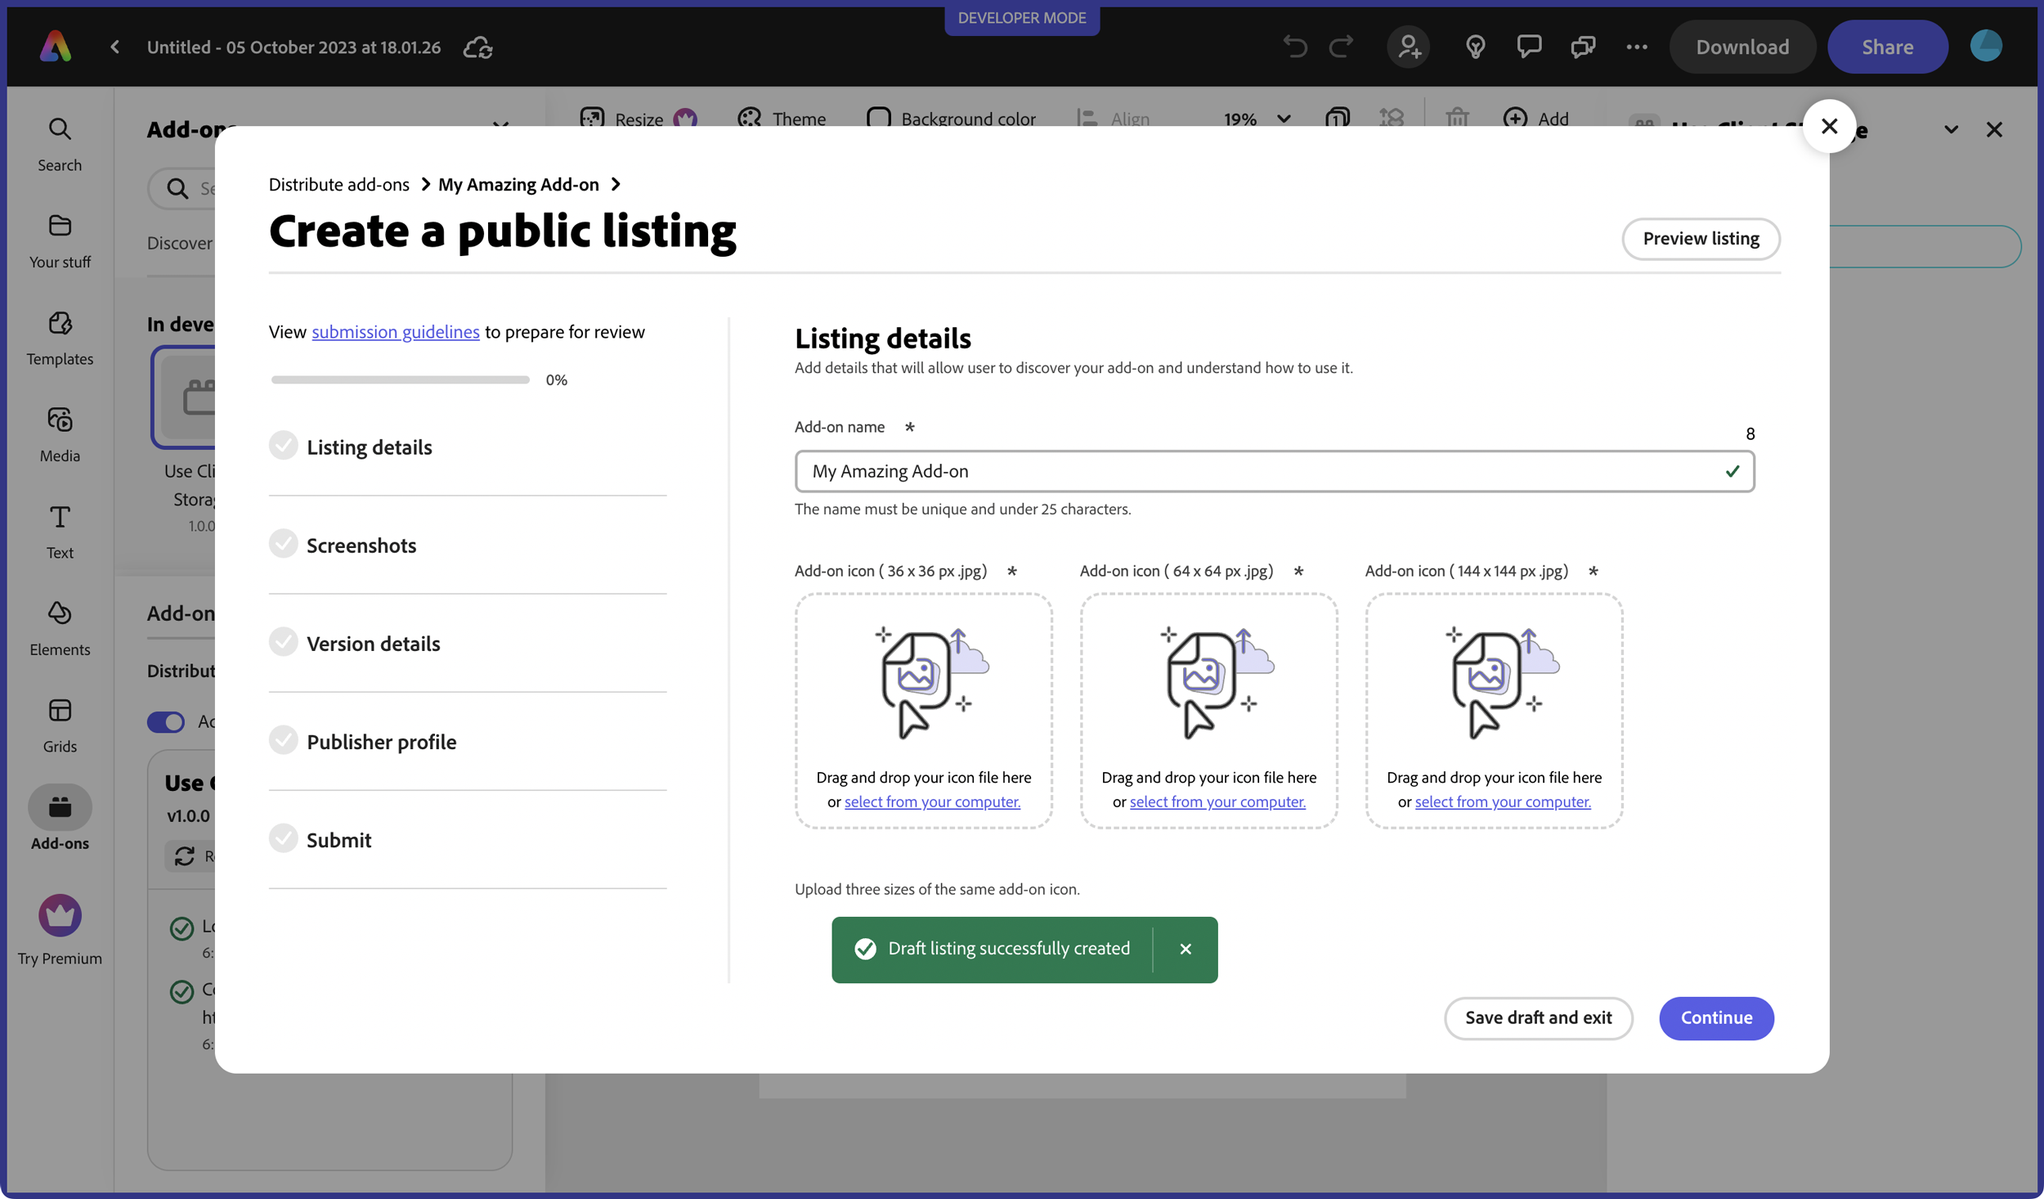
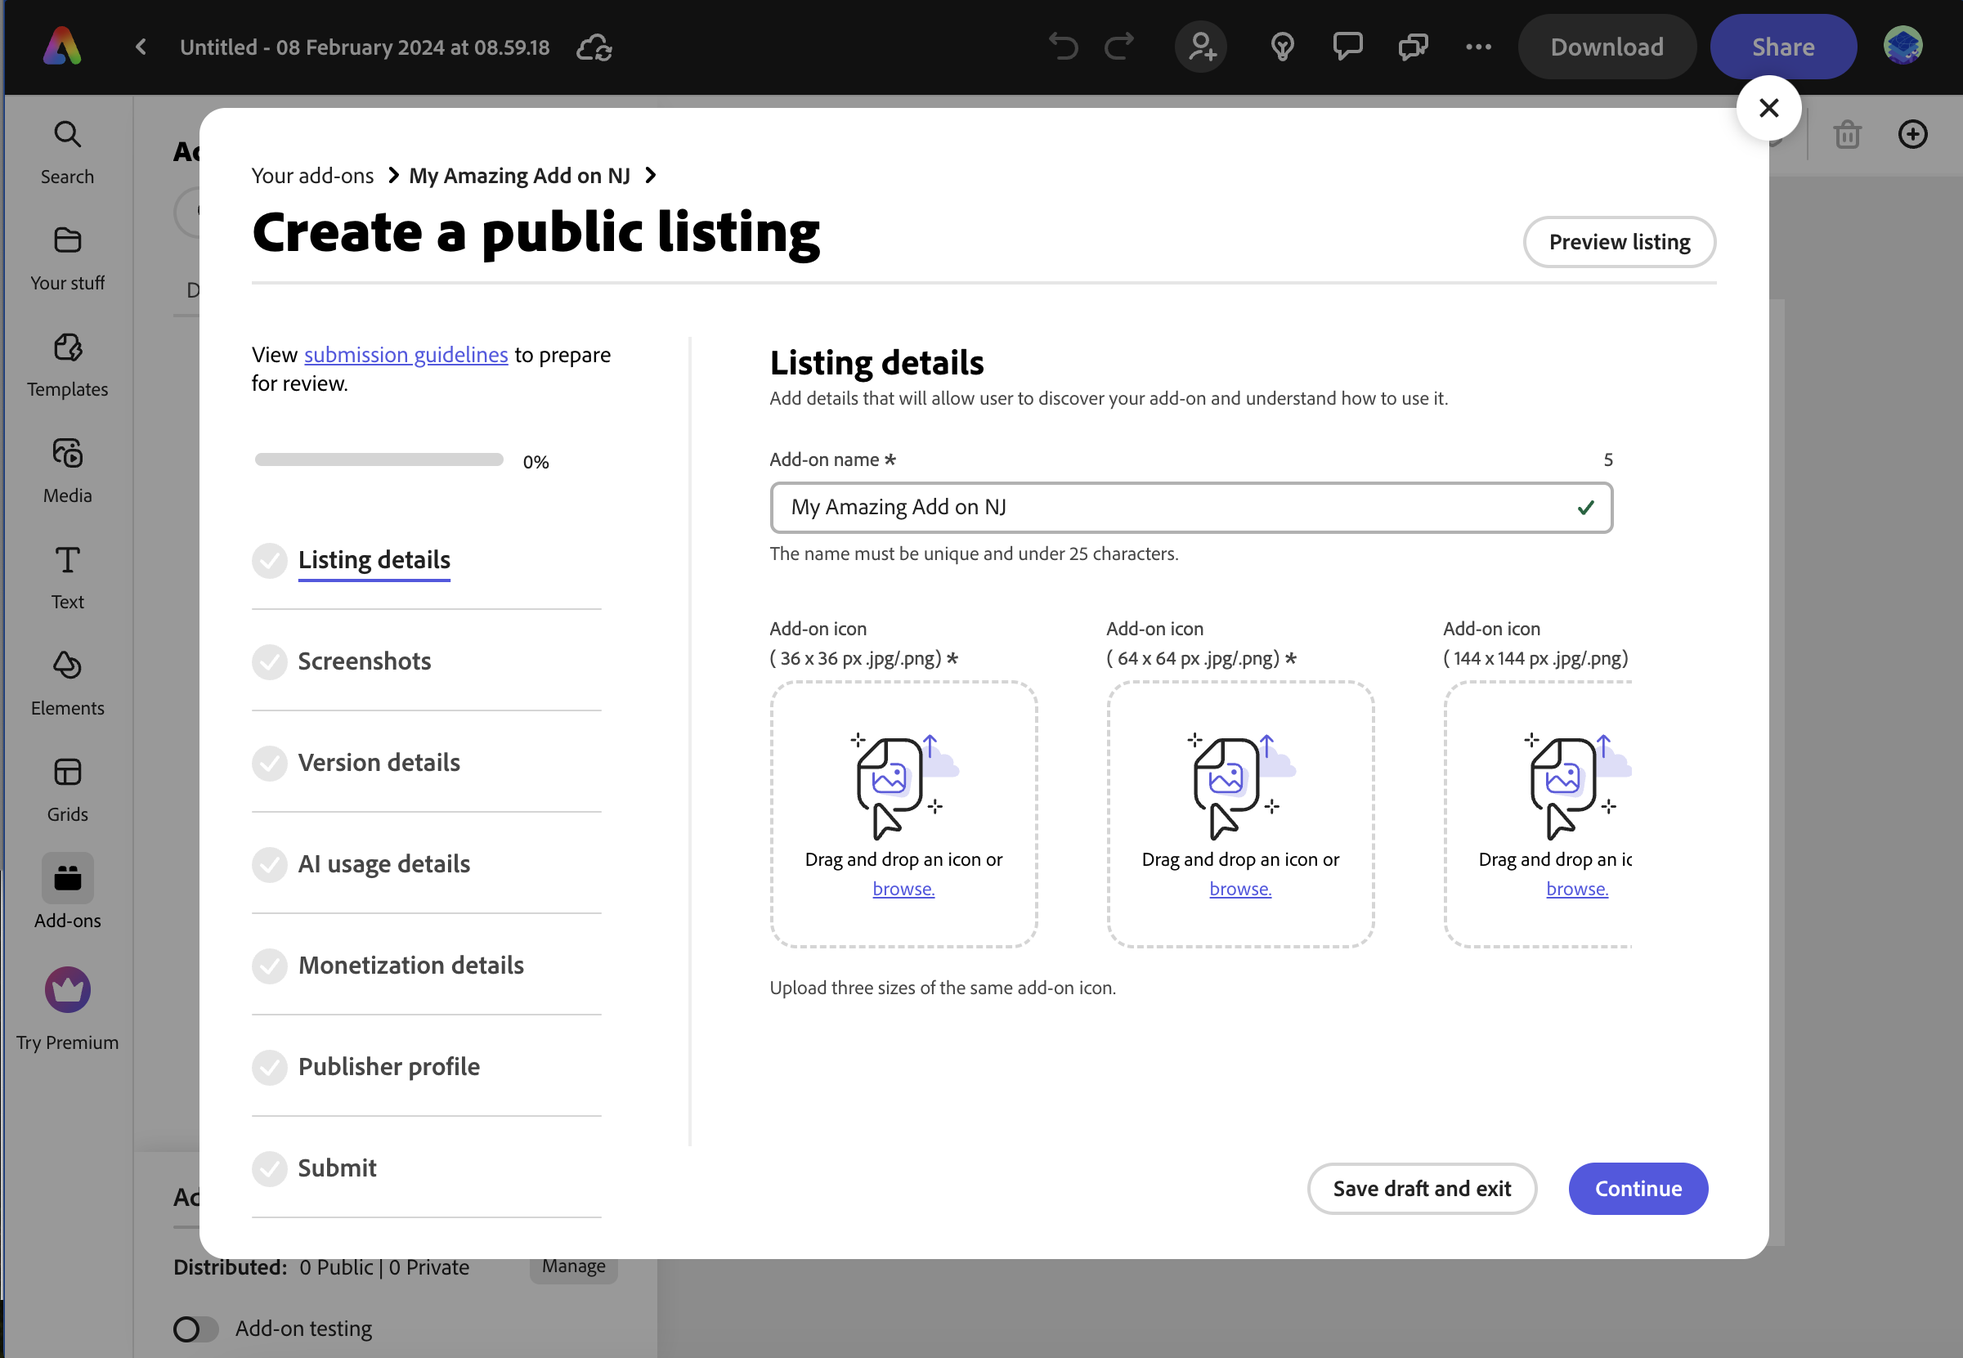
feat-monetization

diff --git a/src/pages/guides/distribute/guidelines/monetization.md b/src/pages/guides/distribute/guidelines/monetization.md
@@ -1,12 +1,20 @@
 # Monetization
 
-## Considerations for Monetization
+Our Monetization guidelines include:
+
+-   Overview
+-   Requirements
+-   Recommendations
+-   Branding your add ons
+
+## Overview
 
 Developers who submit to the marketplace can charge users for using their add-ons.
 
-We recommend that you consider whether you want to monetize your add-on at the outset, as it helps you plan your strategy more effectively.
+Consider whether you want to monetize your add-on at the outset, as it helps you plan your strategy more effectively.
 
-Remember to research the marketplace carefully before you start creating add-ons. This will help you learn whether there is a strong market for a paid add-on – and what other developers (if any) are charging for similar solutions.
+Remember to research the marketplace carefully before you start creating. This will help you learn whether there is a substantial market for a paid add-on and what other developers (if any) are charging for similar solutions.
+
 
 <!-- ## Payment Models
 
@@ -36,18 +44,17 @@ This model asks users to buy credits which can be used for services on the add-o
 
 ## Our Monetization Guidelines
 
-We’ve created these standards to ensure that monetized add-ons provide users with a consistent and reliable experience.
+We’ve created these standards to ensure monetized add-ons provide users with a consistent and reliable experience.
 
 ### Transparency
 
-All add-on developers must be transparent about their pricing and monetization methods. This includes being honest about the price, recurring fees, or additional costs.
+All add-on developers must be transparent about their pricing and monetization methods. This includes being honest about the price and any recurring fees or additional costs.
 
 Users must be able to:
 
-- Locate clear instructions on requesting refund (please place a refund policy on your site).
-- Find a way to cancel any recurring payments, including subscriptions.
-- Manage update their payment methods.
-- Clearly see how much an add-on will cost them, with no hidden fees or surprise charges.
+-   Locate clear instructions on requesting a refund (please place a refund policy on your site).
+-   Find a way to cancel any recurring payments, including subscriptions. Manage their payments and update their payment method
+-   see how much an add-on will cost them, with no hidden fees or surprise charges.
 
 ### Support
 
@@ -59,73 +66,118 @@ You must comply with all applicable laws and regulations. This includes payment 
 
 ### Third-party ads
 
-Your add-ons must not contain third-party advertising, including any ads from Google Ads, Facebook Ads, or other ad networks.
+Your add-ons must not contain any third-party advertising, including any ads from Google Ads, Facebook Ads, or any other ad networks.
 
-This applies to advertising products and services within the add-on description and using banners in the add-on itself.
+This applies to the advertising of products and services within the add-on description, and the use of banners in the add-on itself.
 
 ### Complying with Express Monetization rules
 
-It would be best not to use "Premium" to describe your upgrade options when listing an Adobe Express add-on.
+When listing an Adobe Express add-on, you should not use “Premium” to describe your upgrade options.
 
-The word "Premium" should only be used in relation to the Adobe Express Premium Plan, which provides users with extra content, increased storage, and more.
+The word “Premium” should only be used in relation to the Adobe Express Premium Plan, which provides users with extra content, increased storage and more.
 
 ### Exporting Premium content
 
-Adobe Express allows users who aren't subscribed to a premium version of Adobe Express to experiment with premium content in their documents. When users download or share their documents, they'll be prompted to upgrade to a premium plan.
+Adobe Express allows users that aren't subscribed to a premium version of Adobe Express to experiment with premium content in their documents. When users download or share their document, they'll be prompted to upgrade to a premium plan.
 
-Add-ons must not allow users on a free plan to download, share, or export premium content provided by Adobe Express. When a user on a free plan tries to share or export premium content using your add-on, you must notify the user that they need to upgradeand inform the user how they can do so.
+Add-ons must not allow users on a free plan to download, share, or export premium content provided by Adobe Express. When a user on a free plan tries to share or export premium content using your add-on, you must notify the user that they need to upgrade, and inform the user how they can do so. See our [documentation](/..guides/develop/use_cases/#premium-content) for more information on how to do this.
 
-See our [documentation](../../develop/use_cases.md#premium-content) for more information on how to do this.
+## Requirements for monetizing add ons
 
-### Recommended Practices for Monetization
+When listing your add-on for monetization to the public marketplace, you must indicate your add-on's purchase offerings in the public listing.
 
-We recommend following these tips to make your add-on more user friendly and to avoid potential confusion:
+The following are the supported monetization details currently, 
+- Free
+- One time payment
+- Recurring subscription
+- Micro transactions
+- Other
 
-#### Offer a choice
+<InlineAlert slots="text" variant="info"/>
 
-We recommend giving users a choice of payment options when signing up or upgrading. This includes:
+In all these examples, Checkout is handled by the developer outside of Adobe Express. 
 
-- A choice of payment methods, such as credit cards, PayPal, and other popular alternatives.
-- A choice of payment terms. When users sign up for a subscription or pay as they use, try to provide short and long-term payment options, such as monthly and annual terms.
-- Giving users the chance to try before they buy. Free trials and freemium options can improve sign-up numbers.
 
-<!-- - Differentiate between “free” and “trial”
+Here are examples for each payment model based on a Brush Pack add-on in Adobe Express:
 
-- These words are not interchangeable. “Free” tends to mean that users will not be charged for content while it is published and available.
+| Your selection         | End user view: add-on listing payment details                                                                       | Example                                                                                                                                                                                                                                      |
+|------------------------|---------------------------------------------------------------------------------------------------------------------|----------------------------------------------------------------------------------------------------------------------------------------------------------------------------------------------------------------------------------------------|
+| Free                   | This add-on does not require any payment.                                                                           | Explore our selection of free brush packs in Adobe Express. Access a range of essential brushes at no cost, perfect for getting started on your creative journey without any upfront payment.                                                |
+| One time payment       | The user can purchase a  one-time upgrade or license for full access. Upgrade is available for a one-time purchase. | Upgrade to premium brushes with our one-time Brush Pack purchase in Adobe Express. Unlock a diverse range of high-quality brushes for a single payment, granting you unlimited creative potential without any recurring fees.                |
+| Recurring subscription | Upgrade is available with a recurring subscription.                                                                 | Subscribe to Premium and enjoy continuous access to our extensive library of Brush Packs. For a small monthly fee, access exclusive brushes and receive regular updates with new additions to fuel your creativity.                          |
+| Micro-transactions     | The user can purchase access to  assets or features individually or in packages.                                    | Customize your creative toolkit with individual brush packs available for purchase in Adobe Express. Choose from a variety of sets or opt for bundled packages to save. Pay only for what you need, empowering you to create without limits. |
 
-- “Trial” means that content is free for a limited time. A “free trial” means that the user will not be charged for content for a set period, at which point they will need to pay a fee to access it. -->
 
-- Avoid using “Pro”.
-- Adobe Express caters to non-professional and professional users, so you should avoid using "Pro" in your language.
-- If “Pro” refers to a pricing model, make this clear (for example, by saying “Pro Plan”).
+## Recommendations for monetizing add ons
 
-#### Consider user action
+We recommend following these tips to make your add-on more user-friendly and to avoid potential confusion:
 
-Instead of using words such as “premium” or “gold” in your copy, you should try using words that clarify what the user needs to do.
+### Offer a choice
 
-Words such as “upgrade” or “subscribe” are clearer and more user-friendly.
+We recommend giving users payment options when signing up or upgrading. This includes:
+
+-   A choice of payment methods, such as credit cards, PayPal and other popular alternatives.
+-   A choice of payment terms. When signing up for a subscription or pay-as-you-go, provide short and long-term payment options, such as monthly and annual terms.
+-   Giving users the chance to try before they buy. Free trials and freemium options can improve sign-up numbers.
+-   Avoid using "Pro".
+-   Adobe Express caters to non-professional and professional users, so avoid using "pro" in your language.
+-   If "pro" refers to a pricing model, make this clear (for example, by saying "Pro Plan").
+
+### Consider user action
+
+Instead of using words such as "premium" or "gold" in your copy, you should try using words that make it clear what the user needs to do.
+
+Words such as "upgrade" or "subscribe" are clearer and more user-friendly.
 
 For example, instead of:
 
-*“You’re using the trial version. Go Premium”*
+*"You're using the trial version. Go Premium"*
 
 Try:
 
-*“You’re using the trial version. Upgrade today”*
+*"You're using the trial version. Upgrade today"*
 
 Also, consider adjusting your language to make the benefits of upgrading clearer.
 
 For example, instead of:
 
-*“This item is premium”*
+*"This item is premium"*
 
 Try:
 
-*“Subscribe to access unlimited illustrations like these”*
+*"Subscribe to access unlimited illustrations like these"*
 
-### Branding assets
+## Branding your add ons for monetization
 
 When building your monetization checkout experience, you can use the approved colors, gradients, and iconography to communicate when content or features in your add-on require purchase and when content or features are paid and unlocked.
+
+### Best practices
+
+Here are some guidelines for effectively communicating purchasing options and upgrades within your add-ons:
+
+-   Use visual cues like the "plus" badge and gradient to indicate that certain features require a purchase. The "plus" icon suggests that users can upgrade their experience. 
+-   Provide textual cues through tooltips to inform users about in-app purchase options. Consider using phrases like "add" alongside the plus badge to convey that users can access additional features or content by upgrading.
+-   Use the checkmark badge to signify when a feature or asset has been successfully added after purchase.
+-   Use terms like "upgrade," "add," "Pro," and "Plus," for example:
+    -   Add this [feature] by upgrading the add-on.
+    -   Add more when you upgrade.
+    -   Upgrade to Pro
+    -   Upgrade to [Add-on name] Plus
+- At the beginning of the upgrade flow, let users know that they will have to navigate to an external payment processor to complete their upgrade purchase, for example:
+    -   "You'll need to pay to upgrade outside of Adobe."
+-   Include a disclaimer in your checkout flow to remind users that upgrading the add-on does not change their access to Adobe Express Premium, for example:
+    -   "This upgrade only applies to the [Add-on name] add-on and does not grant or remove access to Adobe Express Premium."
+
+### Patterns to avoid
+
+While our monetization best practices are recommendations for your add-on, implementing the following patterns to avoid them may result in a rejected submission.
+
+-   Don't use any crown icons, colors, or gradients associated with Adobe Express Premium.
+-   Don't use "Premium" for your add-on's upgrade experience.
+-   Don't use a lock icon because it conflicts with the "lock layer" feature in Express. If you previously implemented this pattern, we recommend updating to the "plus badge" in your next submission.
+
+
+###  Branding assets for monetization
 
 #### Plus badge
 

diff --git a/src/pages/guides/distribute/public-dist.md b/src/pages/guides/distribute/public-dist.md
@@ -151,8 +151,6 @@ The `*` indicates required fields. Note that you can skip entering these require
 
 Once you finish entering your listing details, you should see a green checkmark for **Listing Details** in the left rail showing your progress. You can then hit **Continue** to move on to the next step.
 
-![](./img/listing-details.png)
-
 <InlineAlert slots="text" variant="success"/>
 
 You can use the "Back" button throughout the distribution experience when you need to go back to change any details at any step.
@@ -161,11 +159,7 @@ You can use the "Back" button throughout the distribution experience when you ne
 
 In the next screen, you will be prompted to should upload 1-5 screenshots to show off your add-on and what it's all about. **NOTE**: At least one screenshot is required.
 
-![Upload screenshot](./img/screenshot.png)
-
 You will see the green checkmark for **Screenshots** in the left rail once you upload at least one, and at this point you can choose to **Continue**.
-
-![Uploaded screenshot](./img/screenshot2.png)
 
 <InlineAlert slots="text" variant="warning"/>
 
@@ -175,15 +169,35 @@ Sometimes it may take a moment to upload the images to the back-end server befor
 
 Next you will specify your version details. The package that you entered in the first step will be shown by default, but you can replace it if you have made an update since you originally uploaded it in this step as well. You can also select the languages your add-on is supported in, and enter any optional release notes at this step. You will see the green checkmark for **Version details** in the left rail and can press **Continue** to move on.
 
-![Version Details](./img/version-details.png)
 
-### Step 9: Create a publisher profile
+### Step 9: Enter the AI usage details
 
-You will only see this step the first time you submit an add-on and if you've never created a publisher profile prior to this submission. Fill our your publisher details and upload a 250x250 logo, then hit **Continue**.
+The rise of Generative AI offers significant benefits for add-ons and streamlines content creation and workflows. However, this technology also brings the risk of users encountering inappropriate or offensive content. While Adobe encourages user choice regarding add-ons using Generative AI, transparency is paramount. We ensure clear, upfront communication, guarantee appropriate content, and respect intellectual property rights.
 
-![Publisher Profile](./img/pub-profile2.png)
+Carefully review our [AI usage guidelines](./guidelines/genai/index.md) to get latest information on Adobe’s requirements and reccomendations to try add-ons that employ Generative AI technology..
 
-### Step 10: Final submission step
+### Step 10: Enter the monetization details
+
+With the Monetization details tab, developers can monetize their addons and seamlessly choose from various payment options, including free, one-time payments, recurring subscriptions, microtransactions, and more. Dive deeper into customization with additional details fields, allowing developers to specify their preferred payment terms effortlessly.
+
+![](./img/monetization.png)
+
+Select the monetization options that suit your preferences best. Use the [examples](./guidelines/monetization/#requirements-for-monetizing-add-ons) outlined in the guidelines for monetizing add-ons to help you make informed decisions about which options to choose.
+
+If you wish to explore alternative monetization methods for your add-on, you may do so by selecting **Other** and providing relevant details in the **Additional Details** section. This information will be visible to Express users within the add-on details. We recommend clearly stating the pricing for add-on upgrades, any recurring fees, and any additional costs that users may encounter.
+
+Carefully review our [monetization guidelines](./guidelines/monetization.md)to get the latest information on Adobe’s requirements and recommendations for monetizing your add-ons.
+
+### Step 11: Create a publisher profile
+
+<InlineAlert slots="text" variant="info"/>
+You will only see this step the first time you submit an add-on and if you've never created a publisher profile prior to this submission. 
+
+Fill our your publisher details and upload a 250x250 logo, then hit **Continue**.
+
+<!-- ![Publisher Profile](./img/pub-profile2.png)-->
+
+### Step 12: Final submission step
 
 The final submission step prompts you to enter any **Notes to reviewer** and then you can choose to **Submit for review** if you've entered all of the required data and you are done making any more changes.
 

diff --git a/src/pages/guides/distribute/guidelines/general/user_interface.md b/src/pages/guides/distribute/guidelines/general/user_interface.md
@@ -83,3 +83,9 @@ You must test your add-on to make sure that the user interface remains intact an
 ## Text display
 
 Ensure that changing the language does not result in add-on strings or text content being cut-off or truncated. All text should be visible and displayed appropriately on the add-on in all supported languages.
+
+## Branding your Add-ons for monetization
+
+When building your checkout experience for monetize your add-ons, you can use the approved colors, gradients, and iconography to communicate when content or features in your add-on require purchase and when content or features are paid and unlocked. 
+
+Carefully review our [monetization brand guidelines](../monetization.md) to get the latest information on Adobe’s recommendations on branding your add-ons for monetization. 
